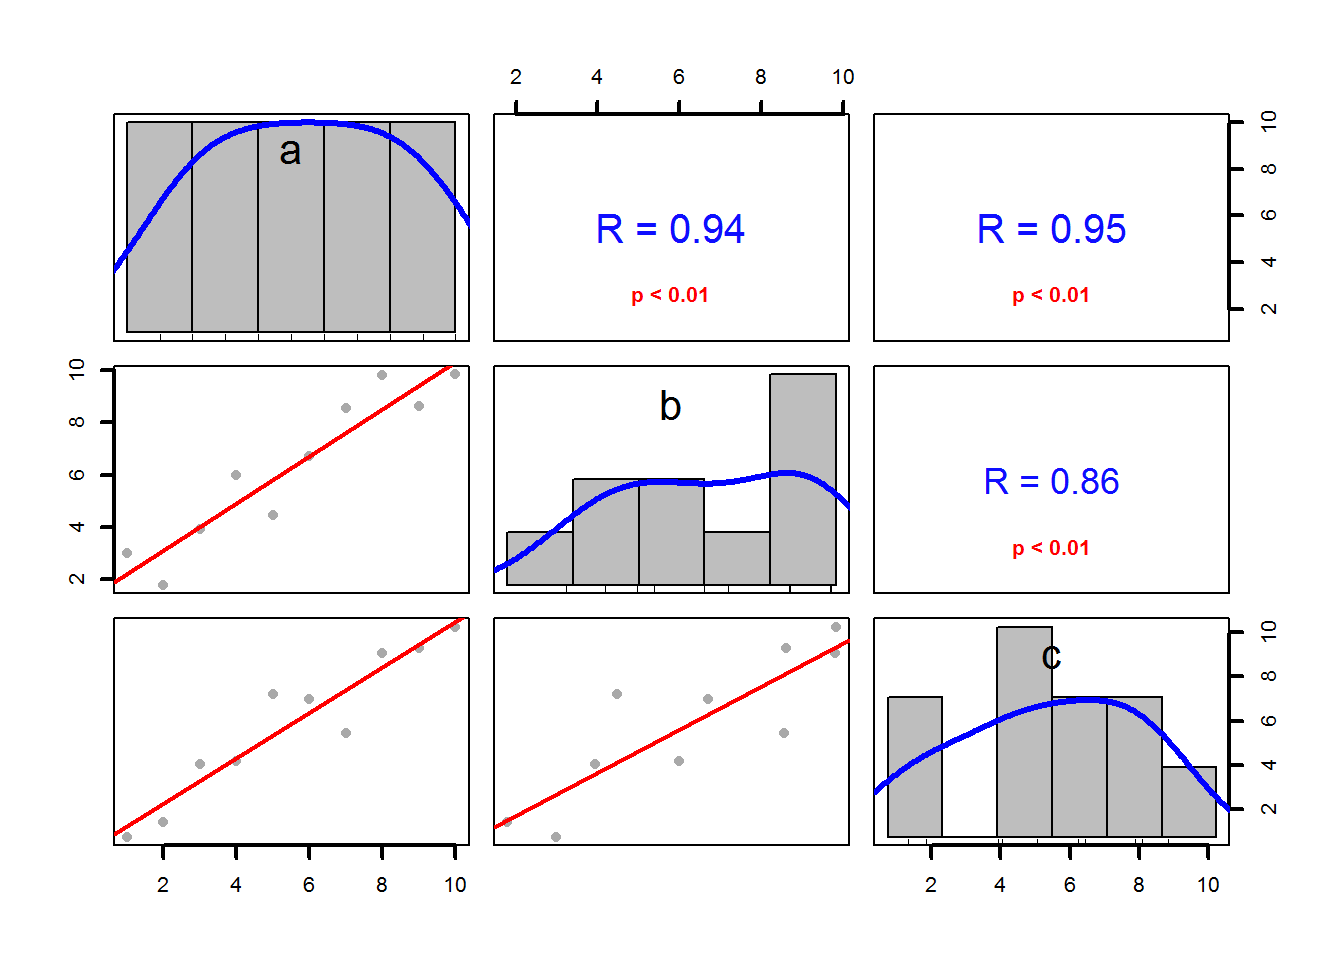
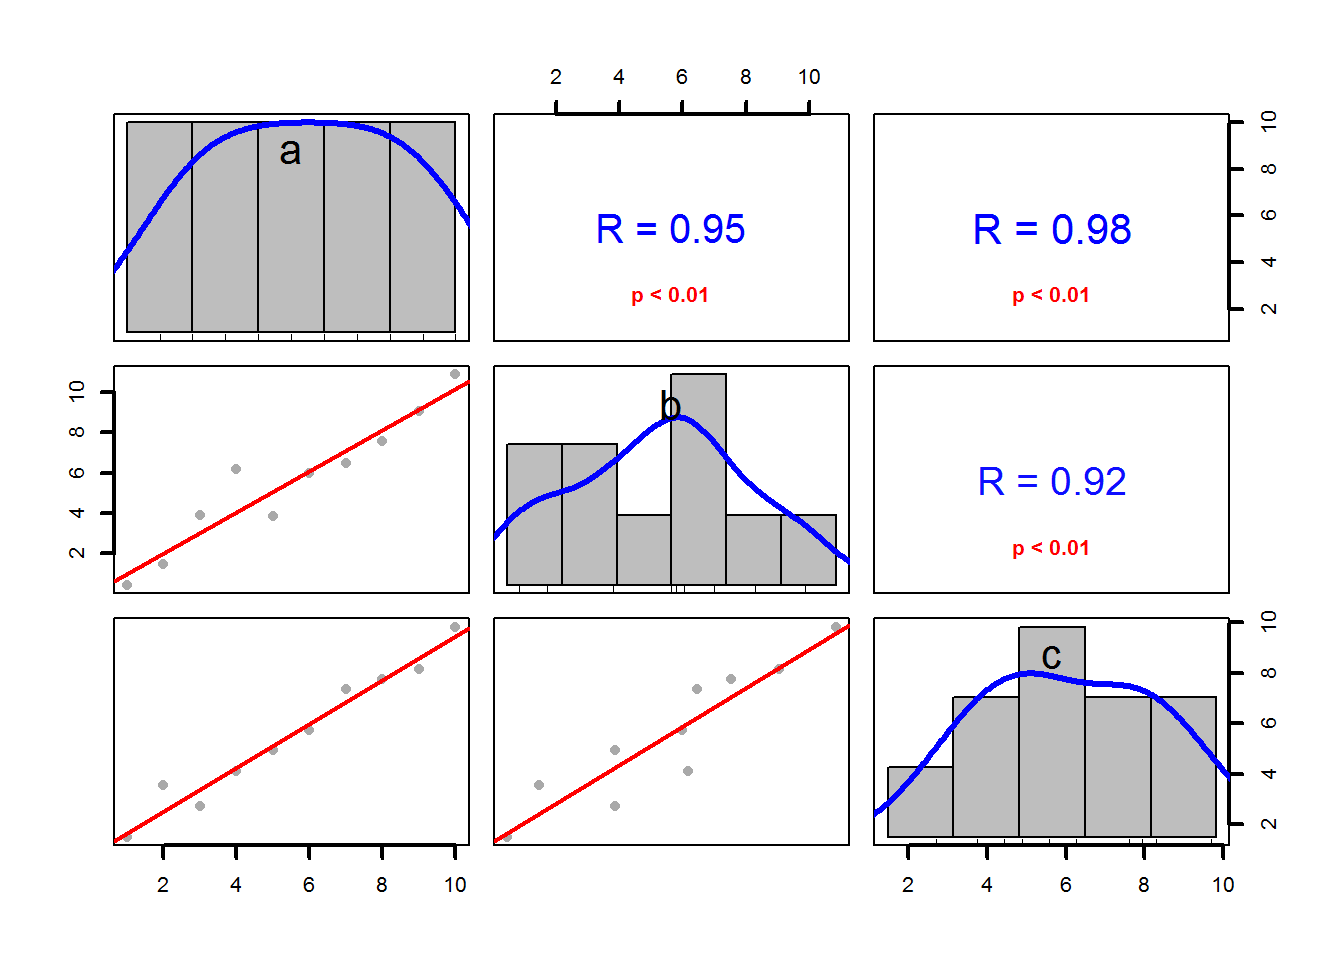
update_auto

diff --git a/content/post/2017-06-23-beginr_released.html b/content/post/2017-06-23-beginr_released.html
@@ -51,12 +51,12 @@ y &lt;- 1:10 + rnorm(10)
 beginr::plotlm(x, y)</code></pre>
 <p><img src="/post/2017-06-23-beginr_released_files/figure-html/unnamed-chunk-2-1.png" width="672" /></p>
 <pre><code>## [[1]]
-##              Estimate Std. Error  t value     Pr(&gt;|t|)
-## (Intercept) 1.1122649 0.57896933 1.921112 9.095942e-02
-## x           0.7491103 0.09330936 8.028244 4.257399e-05
+##              Estimate Std. Error   t value     Pr(&gt;|t|)
+## (Intercept) 0.6543931  0.8443445 0.7750309 0.4606135020
+## x           0.8899582  0.1360784 6.5400385 0.0001803486
 ## 
 ## [[2]]
-## [1] 0.8895831</code></pre>
+## [1] 0.8424332</code></pre>
 <p>经常需要了解一组数据的分布, 看看是不是正态分布. beginr 里的 <code>plothist()</code> 函数不仅做出直方图和平滑曲线, 并且标出中值, 中位数, 四分位数, 标准偏差, 样本数, 以及用来判断是否正态分布的 skewness 值.</p>
 <pre class="r"><code>x &lt;- rnorm(10000)
 beginr::plothist(x)</code></pre>
@@ -90,20 +90,20 @@ beginr::errorbar(x, y, yupper = 0.1, ylower = 0.1)</code></pre>
 <p>beginr 提供了一些对数据框计算的函数, 例如计算多列数据两两的相关性和线性拟合结果, 可以用 <code>lmdf()</code> 函数.</p>
 <pre class="r"><code>df &lt;- data.frame(a = 1:10, b = 1:10 + rnorm(10), c = 1:10 + rnorm(10))
 beginr::lmdf(df)</code></pre>
-<pre><code>##   x y r.squared adj.r.squared    intercept     slope Std.Error.intercept
-## 1 a b 0.9504570     0.9442641 -0.008669419 0.9549422           0.4782856
-## 2 a c 0.8916960     0.8781580 -0.295677576 1.0165898           0.7772218
-## 3 b a 0.9504570     0.9442641  0.281115101 0.9953032           0.4780765
-## 4 b c 0.7705537     0.7418730  0.236733958 0.9647793           1.1076032
-## 5 c a 0.8916960     0.8781580  0.855024005 0.8771443           0.6627661
-## 6 c b 0.7705537     0.7418730  1.014028718 0.7986840           0.9449076
+<pre><code>##   x y r.squared adj.r.squared  intercept     slope Std.Error.intercept
+## 1 a b 0.9468129     0.9401646 -0.3324786 1.0799748           0.5615260
+## 2 a c 0.8286424     0.8072227 -0.1310503 1.0230746           1.0206123
+## 3 b a 0.9468129     0.9401646  0.5840125 0.8766991           0.4738627
+## 4 b c 0.8122002     0.7887252  0.3786416 0.9125859           1.0007389
+## 5 c a 0.8286424     0.8072227  1.0486114 0.8099530           0.8300059
+## 6 c b 0.8122002     0.7887252  0.7160748 0.8899986           0.9644030
 ##   Std.Error.slope t.intercept   t.slope Pr.intercept     Pr.slope
-## 1      0.07708270 -0.01812603 12.388541    0.9859822 1.681047e-06
-## 2      0.12526064 -0.38042880  8.115796    0.7135294 3.937098e-05
-## 3      0.08034063  0.58801275 12.388541    0.5727444 1.681047e-06
-## 4      0.18613241  0.21373536  5.183296    0.8361002 8.393632e-04
-## 5      0.10807866  1.29008400  8.115796    0.2330604 3.937098e-05
-## 6      0.15408806  1.07315114  5.183296    0.3145043 8.393632e-04</code></pre>
+## 1      0.09049811  -0.5920983 11.933672    0.5701358 2.236336e-06
+## 2      0.16448657  -0.1284036  6.219807    0.9009988 2.538953e-04
+## 3      0.07346432   1.2324510 11.933672    0.2527701 2.236336e-06
+## 4      0.15514750   0.3783620  5.882054    0.7150046 3.691444e-04
+## 5      0.13022158   1.2633783  6.219807    0.2420263 2.538953e-04
+## 6      0.15130746   0.7425057  5.882054    0.4790129 3.691444e-04</code></pre>
 <p>还有两个函数对<code>tapply()</code>进行了改善, 用来进行因子计算.</p>
 <pre class="r"><code>beginr::tapplydf()
 beginr::tapplydfv()</code></pre>

diff --git a/content/post/2017-06-23-beginr_released.en.html b/content/post/2017-06-23-beginr_released.en.html
@@ -54,12 +54,12 @@ y &lt;- 1:10 + rnorm(10)
 beginr::plotlm(x, y)</code></pre>
 <p><img src="/post/2017-06-23-beginr_released.en_files/figure-html/unnamed-chunk-3-1.png" width="672" /></p>
 <pre><code>## [[1]]
-##               Estimate Std. Error   t value     Pr(&gt;|t|)
-## (Intercept) -0.9440979  0.6296981 -1.499287 1.721843e-01
-## x            1.0970877  0.1014850 10.810340 4.730661e-06
+##               Estimate Std. Error    t value     Pr(&gt;|t|)
+## (Intercept) -0.4990221  0.7223089 -0.6908708 0.5091925898
+## x            1.0380926  0.1164106  8.9175081 0.0000198281
 ## 
 ## [[2]]
-## [1] 0.93593</code></pre>
+## [1] 0.9085944</code></pre>
 <p>If you want to display the distribution of a data-set, use <code>plothist()</code>, which gives you a histogram with markers of the median, mean, quantiles, standard deviation, sample number and the skewness.</p>
 <pre class="r"><code>x &lt;- rnorm(10000)
 beginr::plothist(x)</code></pre>
@@ -94,19 +94,19 @@ beginr::errorbar(x, y, yupper = 0.1, ylower = 0.1)</code></pre>
 <pre class="r"><code>df &lt;- data.frame(a = 1:10, b = 1:10 + rnorm(10), c = 1:10 + rnorm(10))
 beginr::lmdf(df)</code></pre>
 <pre><code>##   x y r.squared adj.r.squared   intercept     slope Std.Error.intercept
-## 1 a b 0.9393711     0.9317925  0.47786578 0.9329420           0.5199494
-## 2 a c 0.8781652     0.8629358 -0.05995411 1.0680193           0.8726942
-## 3 b a 0.9393711     0.9317925 -0.14770014 1.0068913           0.5655586
-## 4 b c 0.7184504     0.6832567  0.18500729 1.0035832           1.3890131
-## 5 c a 0.8781652     0.8629358  0.71938809 0.8222372           0.7224861
-## 6 c b 0.7184504     0.6832567  1.44678087 0.7158853           1.0572002
+## 1 a b 0.9446675     0.9377509 -0.83552248 1.0974055           0.5826438
+## 2 a c 0.9161943     0.9057186  0.03126545 1.0421219           0.6914277
+## 3 b a 0.9446675     0.9377509  1.02356231 0.8608190           0.4514169
+## 4 b c 0.9331514     0.9247954  0.91905071 0.9314791           0.5402048
+## 5 c a 0.9161943     0.9057186  0.43344371 0.8791623           0.6163876
+## 6 c b 0.9331514     0.9247954 -0.57307433 1.0017953           0.6215712
 ##   Std.Error.slope t.intercept   t.slope Pr.intercept     Pr.slope
-## 1      0.08379744  0.91906203 11.133299    0.3849361 3.787822e-06
-## 2      0.14064741 -0.06870002  7.593594    0.9469145 6.342936e-05
-## 3      0.09043961 -0.26115799 11.133299    0.8005680 3.787822e-06
-## 4      0.22211988  0.13319333  4.518205    0.8973299 1.954530e-03
-## 5      0.10828037  0.99571203  7.593594    0.3485496 6.342936e-05
-## 6      0.15844462  1.36850226  4.518205    0.2083490 1.954530e-03</code></pre>
+## 1      0.09390156 -1.43401926 11.686766   0.18947411 2.621953e-06
+## 2      0.11143366  0.04521869  9.351949   0.96504136 1.396547e-05
+## 3      0.07365758  2.26744327 11.686766   0.05310191 2.621953e-06
+## 4      0.08814508  1.70130044 10.567568   0.12730204 5.612836e-06
+## 5      0.09400846  0.70319996  9.351949   0.50187935 1.396547e-05
+## 6      0.09479904 -0.92197702 10.567568   0.38350296 5.612836e-06</code></pre>
 <p>There are two functions as improvements of <code>tapply()</code> for factor calculation.</p>
 <pre class="r"><code>beginr::tapplydf()
 beginr::tapplydfv()</code></pre>
